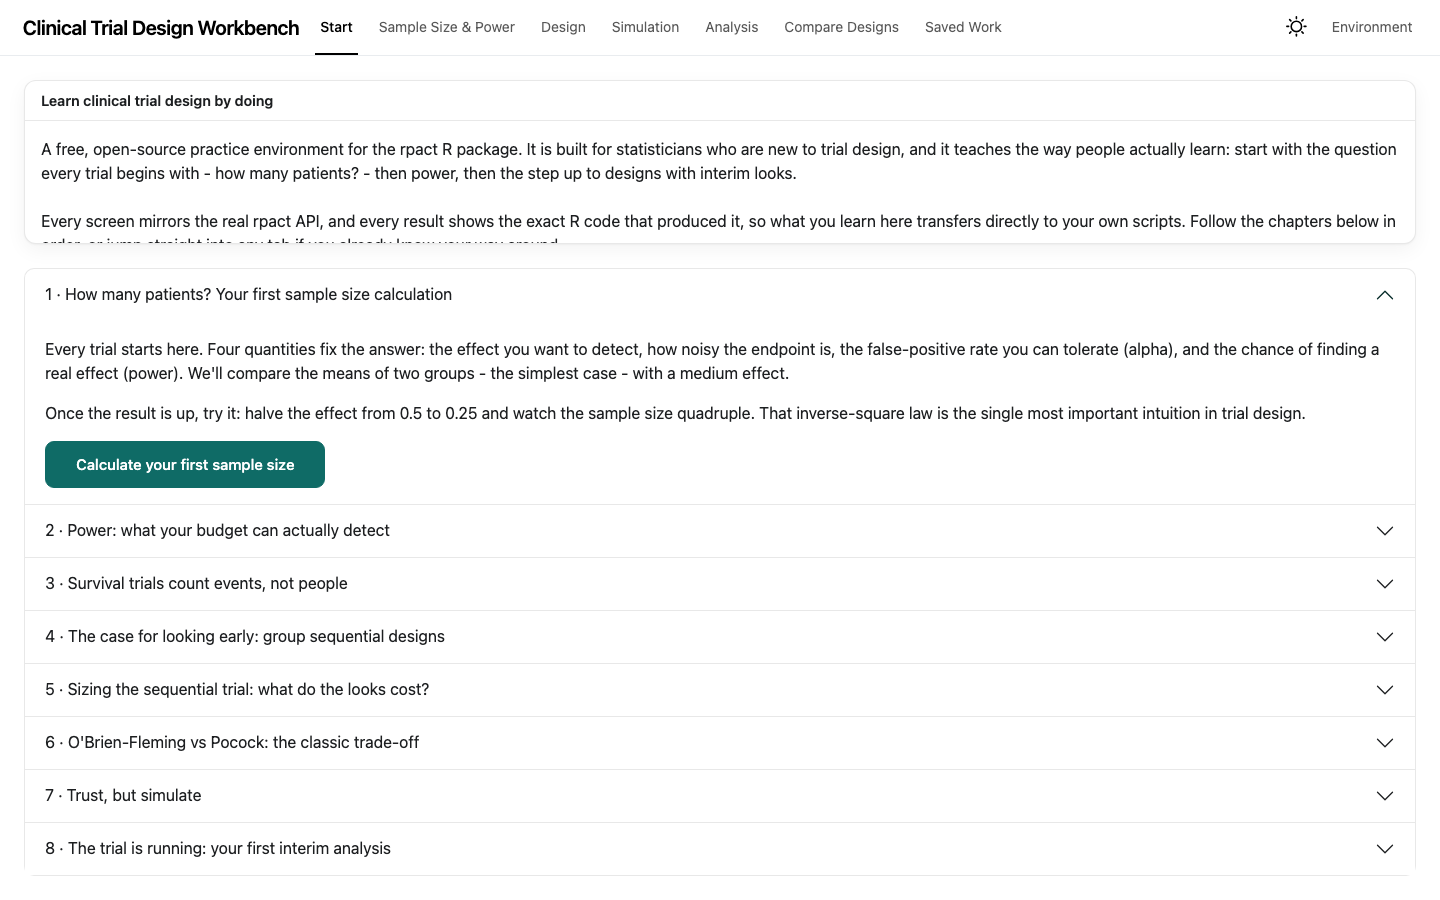
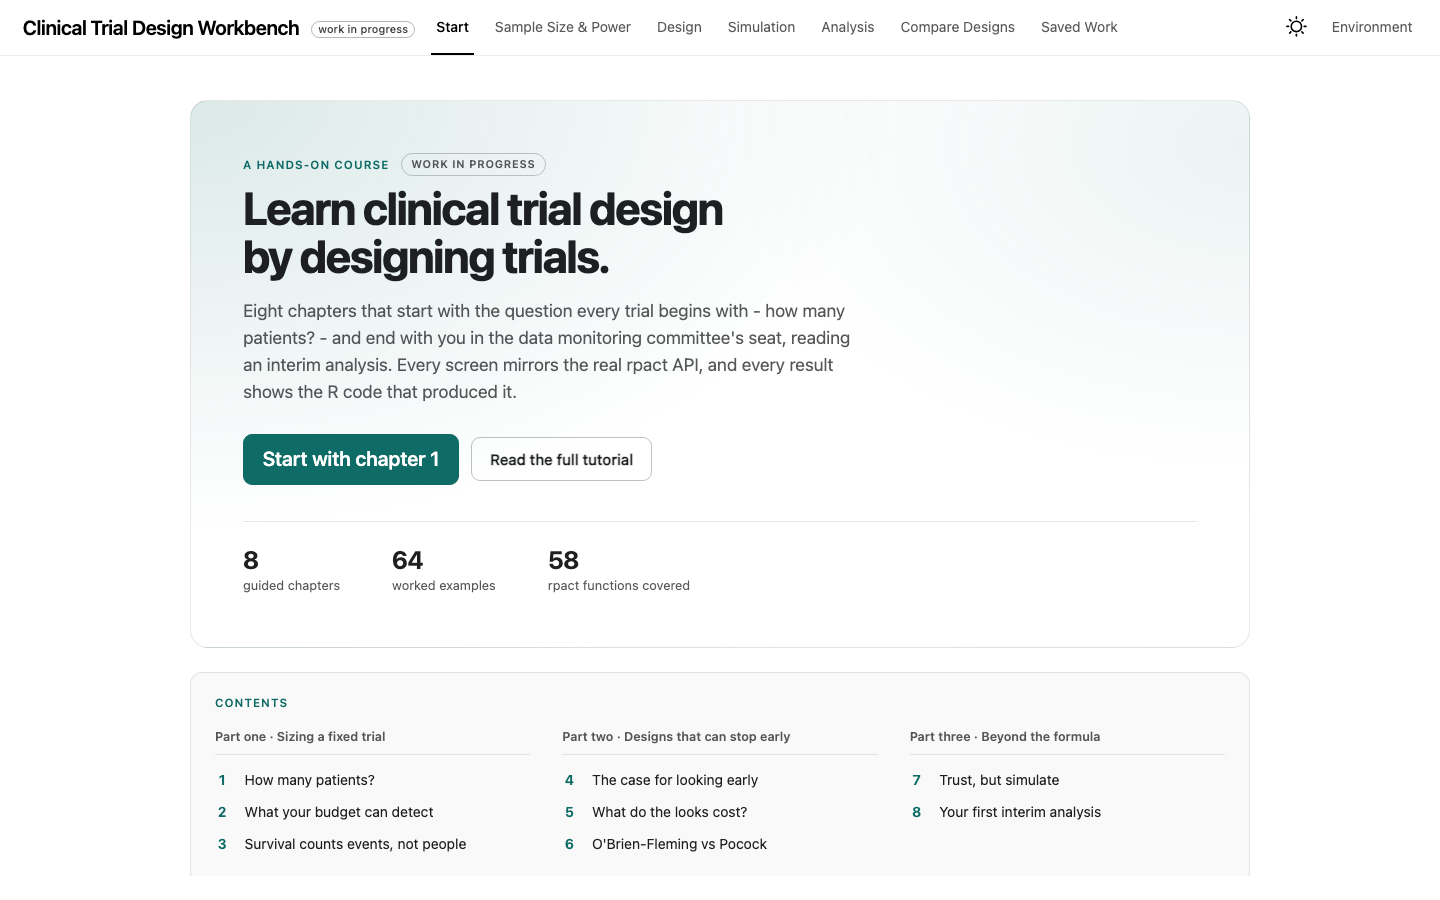
Update the workbench page for the redesigned app
New screenshot of the redesigned Start tab, and copy describing the
course as three parts with a contents list, plus the shared opening
every tab now uses.

diff --git a/docs/workbench.html b/docs/workbench.html
@@ -361,13 +361,13 @@ ul.task-list li input[type="checkbox"] {
 <div class="quarto-figure quarto-figure-center">
 <figure class="figure">
 <p><img src="images/workbench/start.png" class="img-fluid figure-img"></p>
-<figcaption>The Start tab: eight guided chapters, from a first sample size calculation to a first interim analysis</figcaption>
+<figcaption>The Start tab opens with the course contents: eight chapters in three parts, from a first sample size calculation to a first interim analysis</figcaption>
 </figure>
 </div>
 </div>
 <section id="whats-inside" class="level2">
 <h2 class="anchored" data-anchor-id="whats-inside">What’s inside</h2>
-<p>Every rpact function family has an interface, organised the way the work is actually done.</p>
+<p>Every rpact function family has an interface, organised the way the work is actually done. Each one opens the same way — the phase of work it belongs to, what it does, and a line on when you would reach for it — so moving between them costs nothing.</p>
 <p><span class="name">Design</span> — group sequential boundaries: O’Brien–Fleming, Pocock, Haybittle–Peto, alpha-spending families, and the characteristics and plots that let you read what a boundary costs.</p>
 <p><span class="name">Sample size &amp; power</span> — means, rates, and survival endpoints; survival planning with accrual and follow-up; and the conversion calculators that turn medians into hazard rates and back.</p>
 <p><span class="name">Simulation</span> — check a design’s operating characteristics by simulation before you trust them, including multi-arm and population-enrichment designs.</p>
@@ -377,7 +377,7 @@ ul.task-list li input[type="checkbox"] {
 </section>
 <section id="learn-by-doing" class="level2">
 <h2 class="anchored" data-anchor-id="learn-by-doing">Learn by doing</h2>
-<p>The Start tab holds eight guided chapters that seed the objects the rest of the app builds on. Behind them sit <strong>64 worked examples across 58 functions</strong> — every feature in the app has at least one example you can load with a click, run, and then bend: each one ends with a “try changing this” prompt and an interpretation of what the numbers mean.</p>
+<p>The Start tab is laid out as a course rather than a menu: eight guided chapters in three parts — sizing a fixed trial, designs that can stop early, and what to do when the formulas run out. Each chapter seeds the objects the next one needs, so none of them can dead-end, and the contents list at the top shows the whole arc before you start. Behind them sit <strong>64 worked examples across 58 functions</strong> — every feature in the app has at least one example you can load with a click, run, and then bend: each one ends with a “try changing this” prompt and an interpretation of what the numbers mean.</p>
 <p>The <a href="https://github.com/stat-absk/CT_Dashboard/blob/main/TUTORIAL.md">tutorial</a> turns those examples into a follow-along course. Each exercise names what to load, what numbers to expect, and what to try next; the numbers quoted are verified against rpact 4.4.0. It closes with a capstone that designs, simulates, and analyses an anti-hypertensive trial end to end. If you only want your bearings, the shorter <a href="https://github.com/stat-absk/CT_Dashboard/blob/main/USER_GUIDE.md">quick-start guide</a> covers the layout and the first calculation.</p>
 </section>
 <section id="what-it-is-and-isnt" class="level2">
